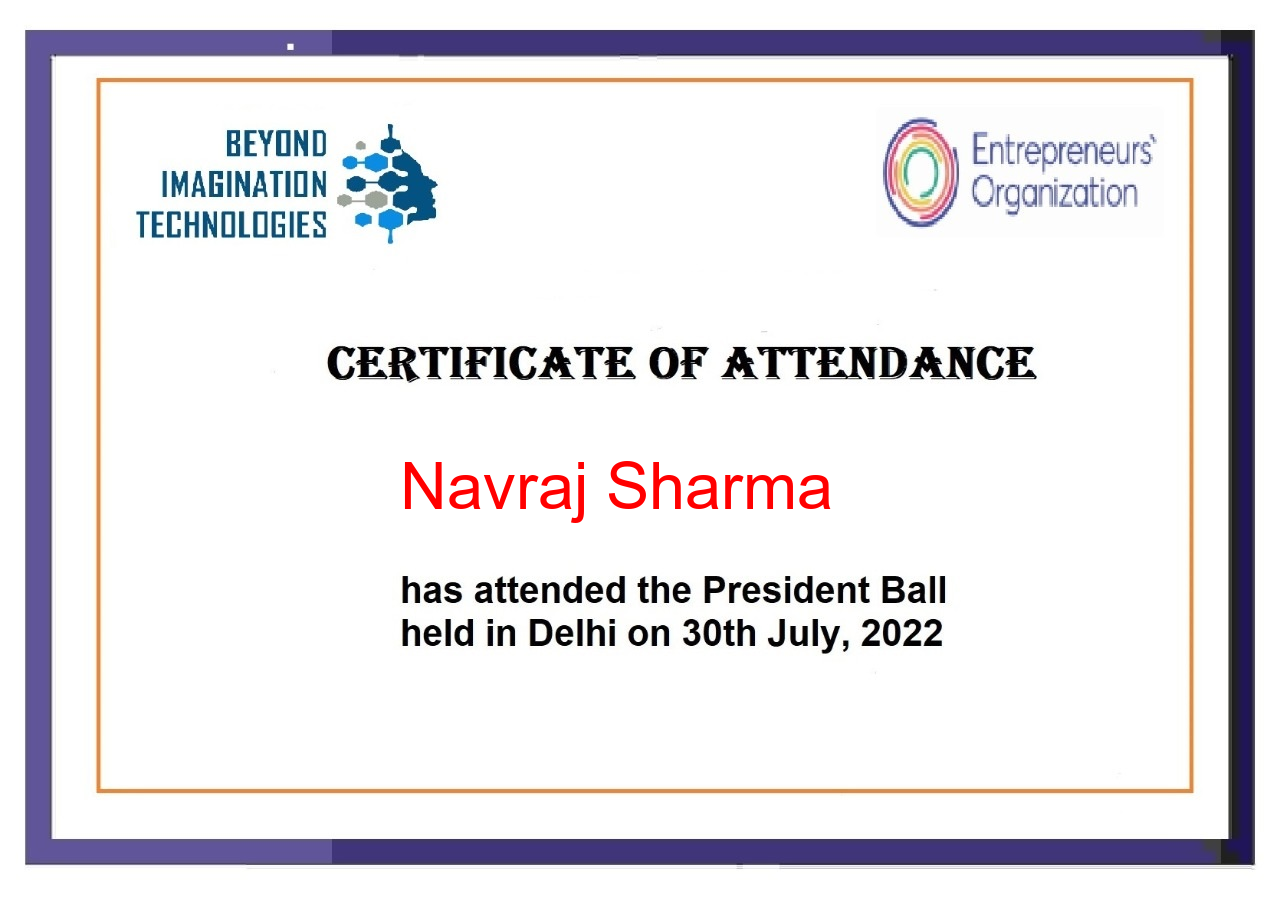
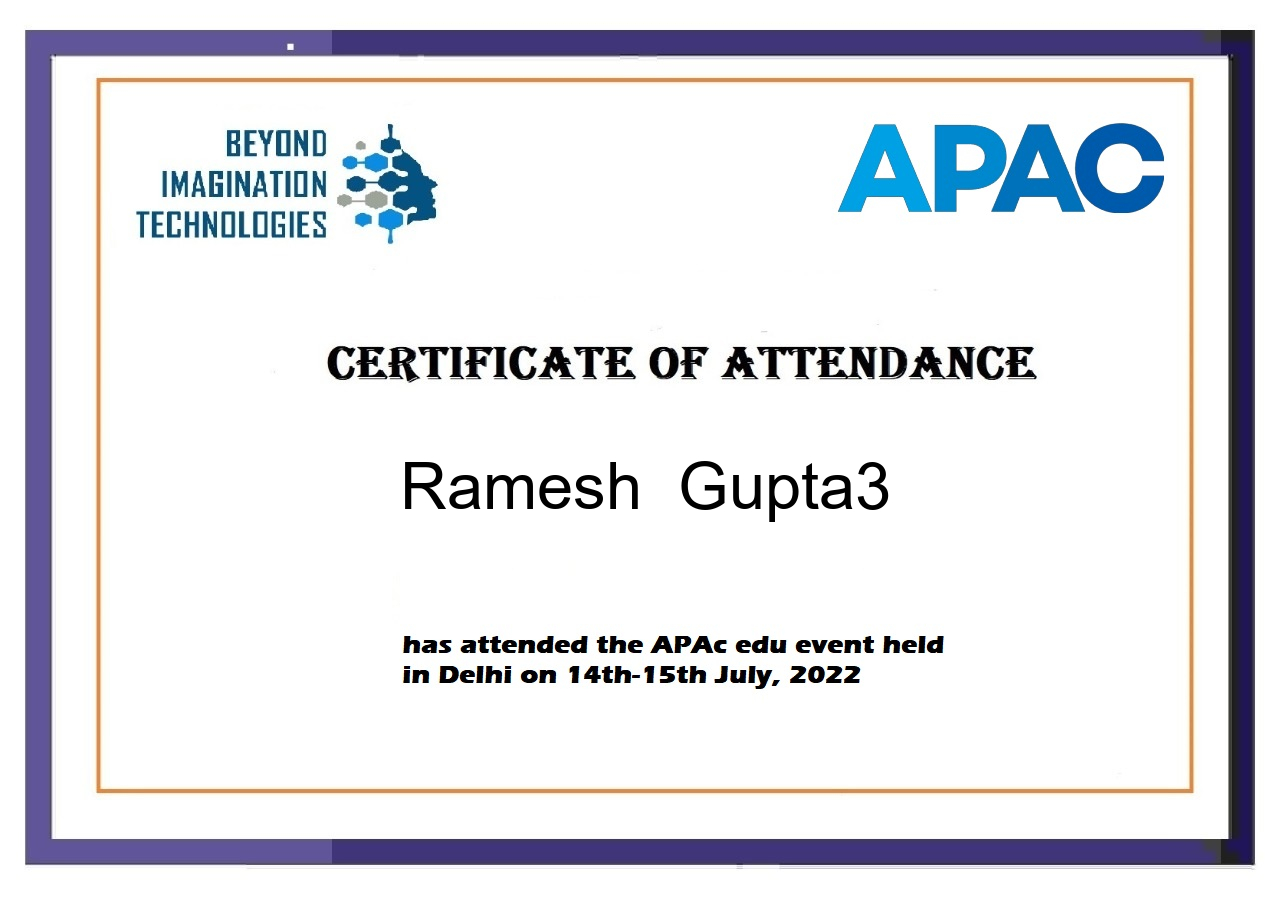
before APAC event

Changed region(s): [[0.3125, 0.6215, 0.75, 0.7769], [0.6562, 0.1243, 0.9062, 0.2486], [0.3125, 0.4972, 0.7188, 0.5905]]

diff --git a/Backend/blokcred/api/image_creator.py b/Backend/blokcred/api/image_creator.py
@@ -19,7 +19,7 @@ def create_image(myname):
     myFont = ImageFont.truetype('arial.ttf', 65)
     
     # Add Text to an image
-    I1.text((400, 450), myname, font=myFont, fill=(255, 0, 0))
+    I1.text((400, 450), myname, font=myFont, fill=(0, 0, 0))
     
     # Display edited image
     img.show()
